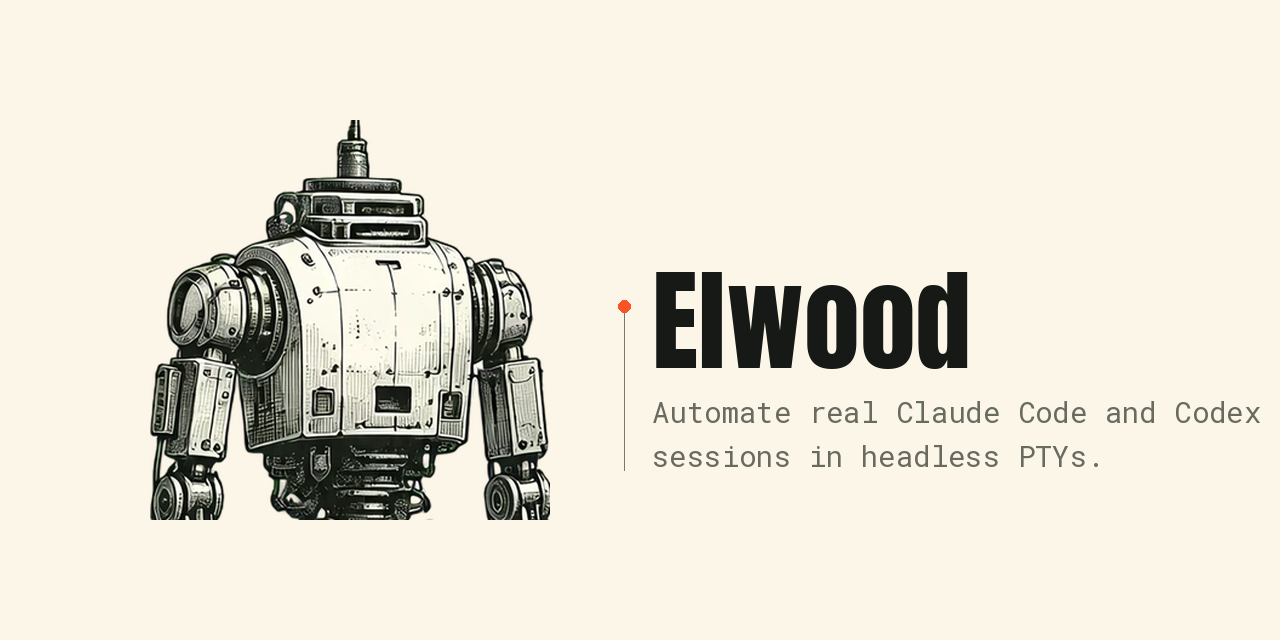
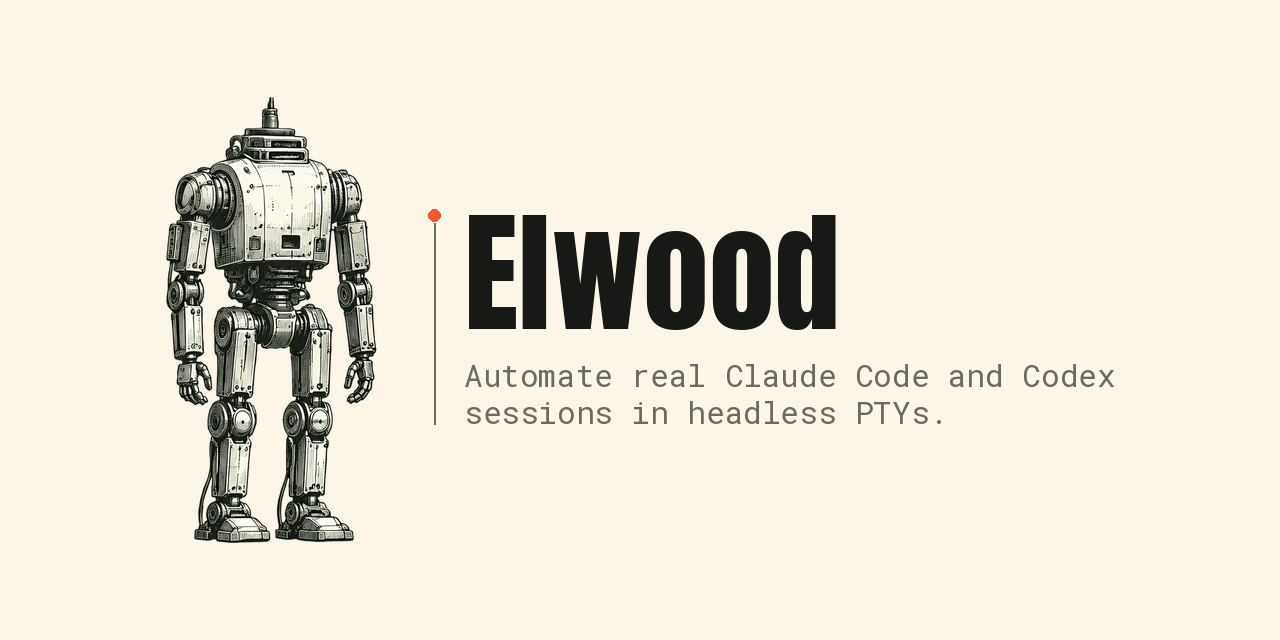
fix(site): centre the social card and build it from a script
The card was hand-composed and sat badly off-centre: 150px of paper on the
left against 21px on the right, with the tagline almost touching the frame
and the robot cropped at the knees. It is the Open Graph image for
elwood.bot as well as the GitHub social preview, so every shared link
carried the imbalance.

It now renders from site/scripts/build_social_card.py, which measures the
robot and the text block and centres them together inside an equal margin
box. Left and right gutters come out within 1px of each other, top and
bottom likewise, and the whole robot fits. The script reads the landing
page's own robot, Anton and Roboto Mono faces, and the landing.css palette,
so the card cannot drift from the site it advertises.

Still 1280x640 and opaque, which is what GitHub recommends, and smaller
than before at 172 KB.

Claude-Session: https://claude.ai/code/session_01B2ekkwwWTQPnh641LJYQvu

Changed region(s): [[0.0938, 0.1562, 1.0, 0.8438]]

diff --git a/site/scripts/build_social_card.py b/site/scripts/build_social_card.py
@@ -1,0 +1,117 @@
+"""Renders the GitHub/Open Graph social card from the landing page's own assets.
+
+The card is 1280x640 (GitHub's recommended size, and a safe 2:1 for Open Graph).
+Everything it draws comes from site/assets/landing: the robot, the Anton
+wordmark, the Roboto Mono tagline, and the palette in landing.css, so the card
+cannot drift from the site it advertises.
+
+Layout is margin-driven rather than hand-placed. The robot and the text block
+are measured, then centred together inside a fixed margin box, which is what
+keeps the left and right gutters equal. Run:
+
+    python3 site/scripts/build_social_card.py
+
+Requires fonttools[woff] and Pillow (the woff2 web fonts are decompressed to
+TTF in a temp dir so Pillow can rasterise them).
+"""
+
+from __future__ import annotations
+
+import tempfile
+from pathlib import Path
+
+from fontTools.ttLib import TTFont
+from PIL import Image, ImageDraw, ImageFont
+
+SITE = Path(__file__).resolve().parents[1]
+LANDING = SITE / "assets" / "landing"
+FONTS = LANDING / "fonts"
+
+WIDTH, HEIGHT = 1280, 640
+
+# Straight from landing.css so the card and the page cannot disagree.
+PAPER = (251, 246, 231)
+INK = (23, 25, 22)
+SIGNAL = (250, 84, 38)
+MUTED = (105, 106, 96)
+
+MARGIN = 96  # Equal on all four sides; the whole composition sits inside it.
+GAP = 56  # Space between the robot and the rule.
+RULE_GAP = 30  # Space between the rule and the text.
+
+TITLE = "Elwood"
+TAGLINE = ("Automate real Claude Code and Codex", "sessions in headless PTYs.")
+
+
+def as_truetype(woff2: Path, out_dir: Path) -> Path:
+    """woff2 -> ttf, because Pillow cannot open a compressed web font."""
+    font = TTFont(str(woff2))
+    ttf = out_dir / f"{woff2.stem}.ttf"
+    font.flavor = None
+    font.save(str(ttf))
+    return ttf
+
+
+def text_size(draw: ImageDraw.ImageDraw, text: str, font: ImageFont.FreeTypeFont) -> tuple[int, int]:
+    left, top, right, bottom = draw.textbbox((0, 0), text, font=font)
+    return right - left, bottom - top
+
+
+def main() -> None:
+    with tempfile.TemporaryDirectory() as tmp:
+        tmp_dir = Path(tmp)
+        anton = ImageFont.truetype(str(as_truetype(FONTS / "anton.woff2", tmp_dir)), 132)
+        mono = ImageFont.truetype(str(as_truetype(FONTS / "roboto-mono.woff2", tmp_dir)), 31)
+
+        card = Image.new("RGB", (WIDTH, HEIGHT), PAPER)
+        draw = ImageDraw.Draw(card)
+
+        # --- measure the text block -------------------------------------
+        title_w, title_h = text_size(draw, TITLE, anton)
+        line_h = text_size(draw, TAGLINE[0], mono)[1]
+        tag_w = max(text_size(draw, line, mono)[0] for line in TAGLINE)
+        leading = int(line_h * 1.62)
+        tag_block_h = leading * (len(TAGLINE) - 1) + line_h
+        text_w = max(title_w, tag_w)
+        text_h = title_h + 34 + tag_block_h
+
+        # --- measure the robot, scaled to the available height ----------
+        robot = Image.open(LANDING / "robot.webp").convert("RGBA")
+        robot_h = HEIGHT - MARGIN * 2
+        robot_w = round(robot.width * robot_h / robot.height)
+        robot = robot.resize((robot_w, robot_h), Image.LANCZOS)
+
+        # --- centre robot + rule + text as one composition --------------
+        total_w = robot_w + GAP + RULE_GAP + text_w
+        x = (WIDTH - total_w) // 2
+
+        card.paste(robot, (x, (HEIGHT - robot_h) // 2), robot)
+
+        rule_x = x + robot_w + GAP
+        text_x = rule_x + RULE_GAP
+        text_top = (HEIGHT - text_h) // 2
+
+        # Vertical rule with the signal dot, echoing the page's system note.
+        # The rule spans the whole text block so it reads as a margin bar
+        # rather than stopping short beside the wordmark.
+        draw.line(
+            [(rule_x, text_top + 8), (rule_x, text_top + text_h)],
+            fill=MUTED,
+            width=2,
+        )
+        draw.ellipse([rule_x - 6, text_top - 6, rule_x + 6, text_top + 6], fill=SIGNAL)
+
+        draw.text((text_x, text_top), TITLE, font=anton, fill=INK, anchor="lt")
+        y = text_top + title_h + 34
+        for line in TAGLINE:
+            draw.text((text_x, y), line, font=mono, fill=MUTED, anchor="lt")
+            y += leading
+
+        png = LANDING / "social-card.png"
+        card.save(png, optimize=True)
+        card.save(LANDING / "social-card.webp", quality=90, method=6)
+        print(f"wrote {png.relative_to(SITE)} ({png.stat().st_size // 1024} KB)")
+
+
+if __name__ == "__main__":
+    main()
